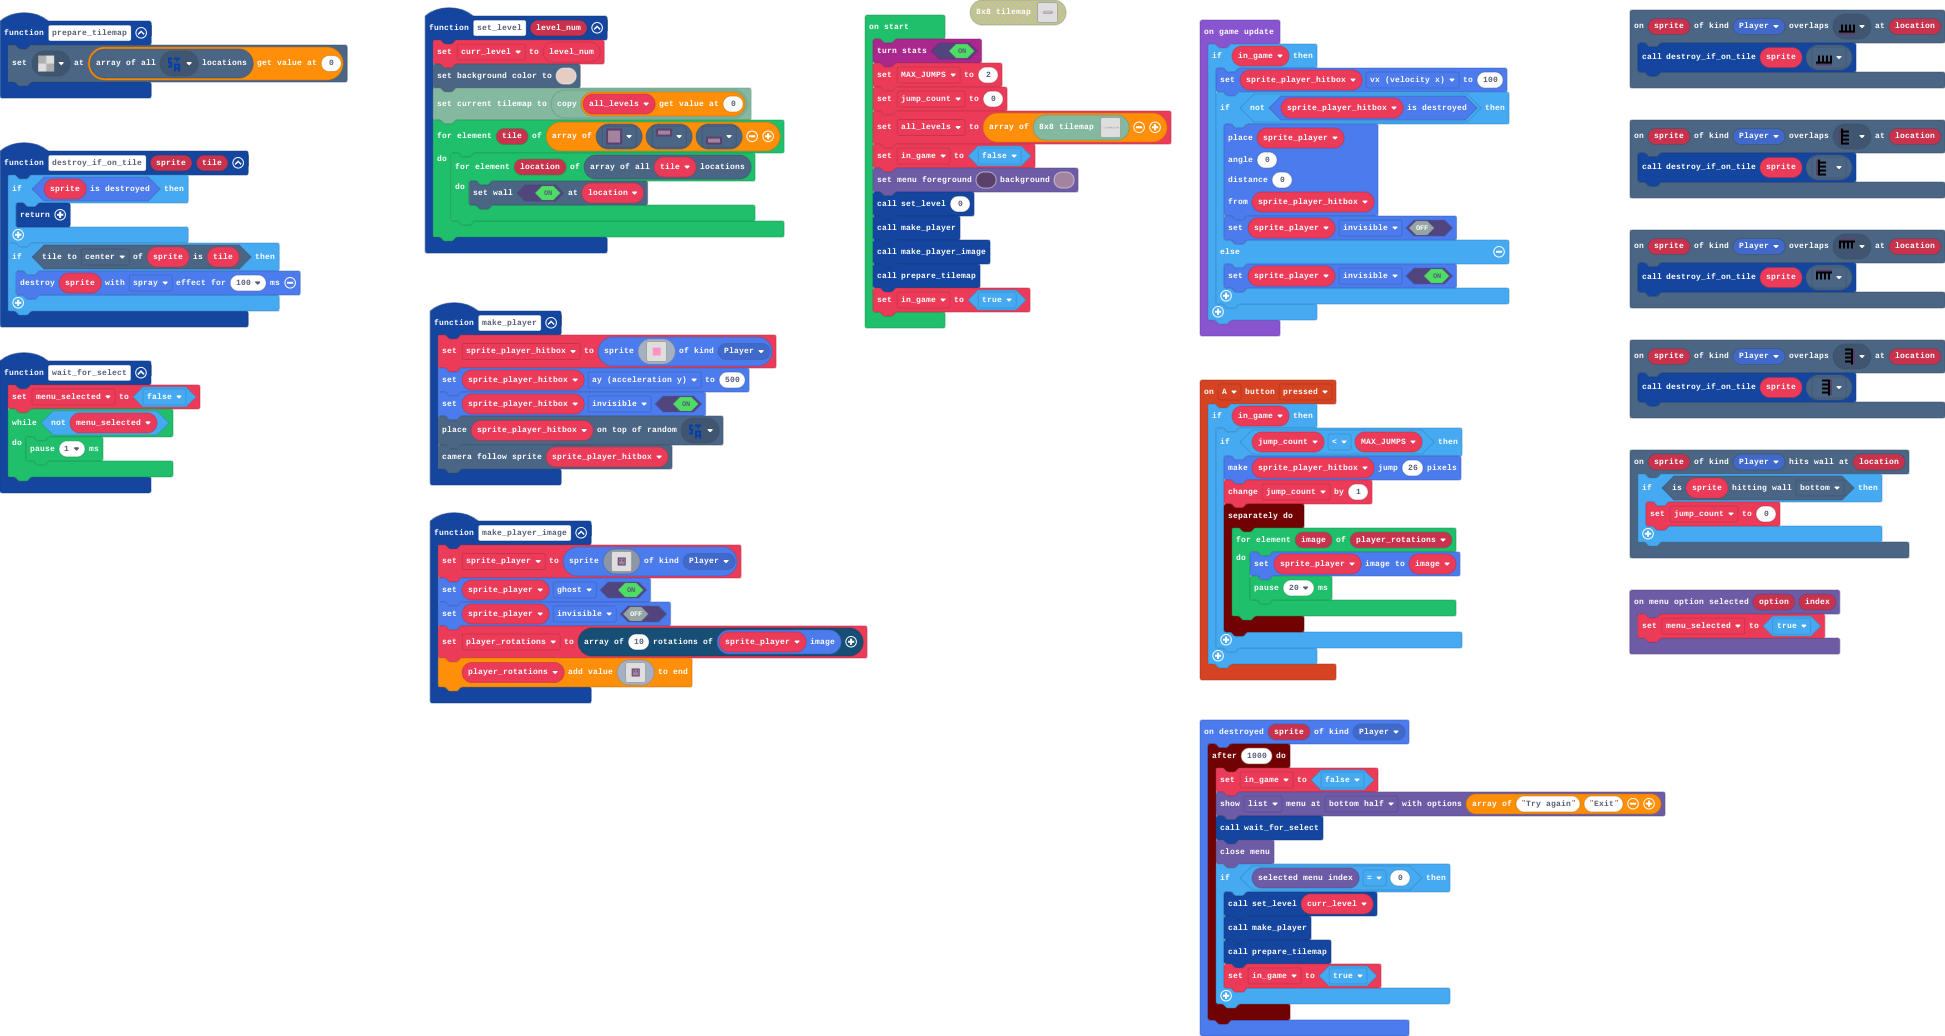
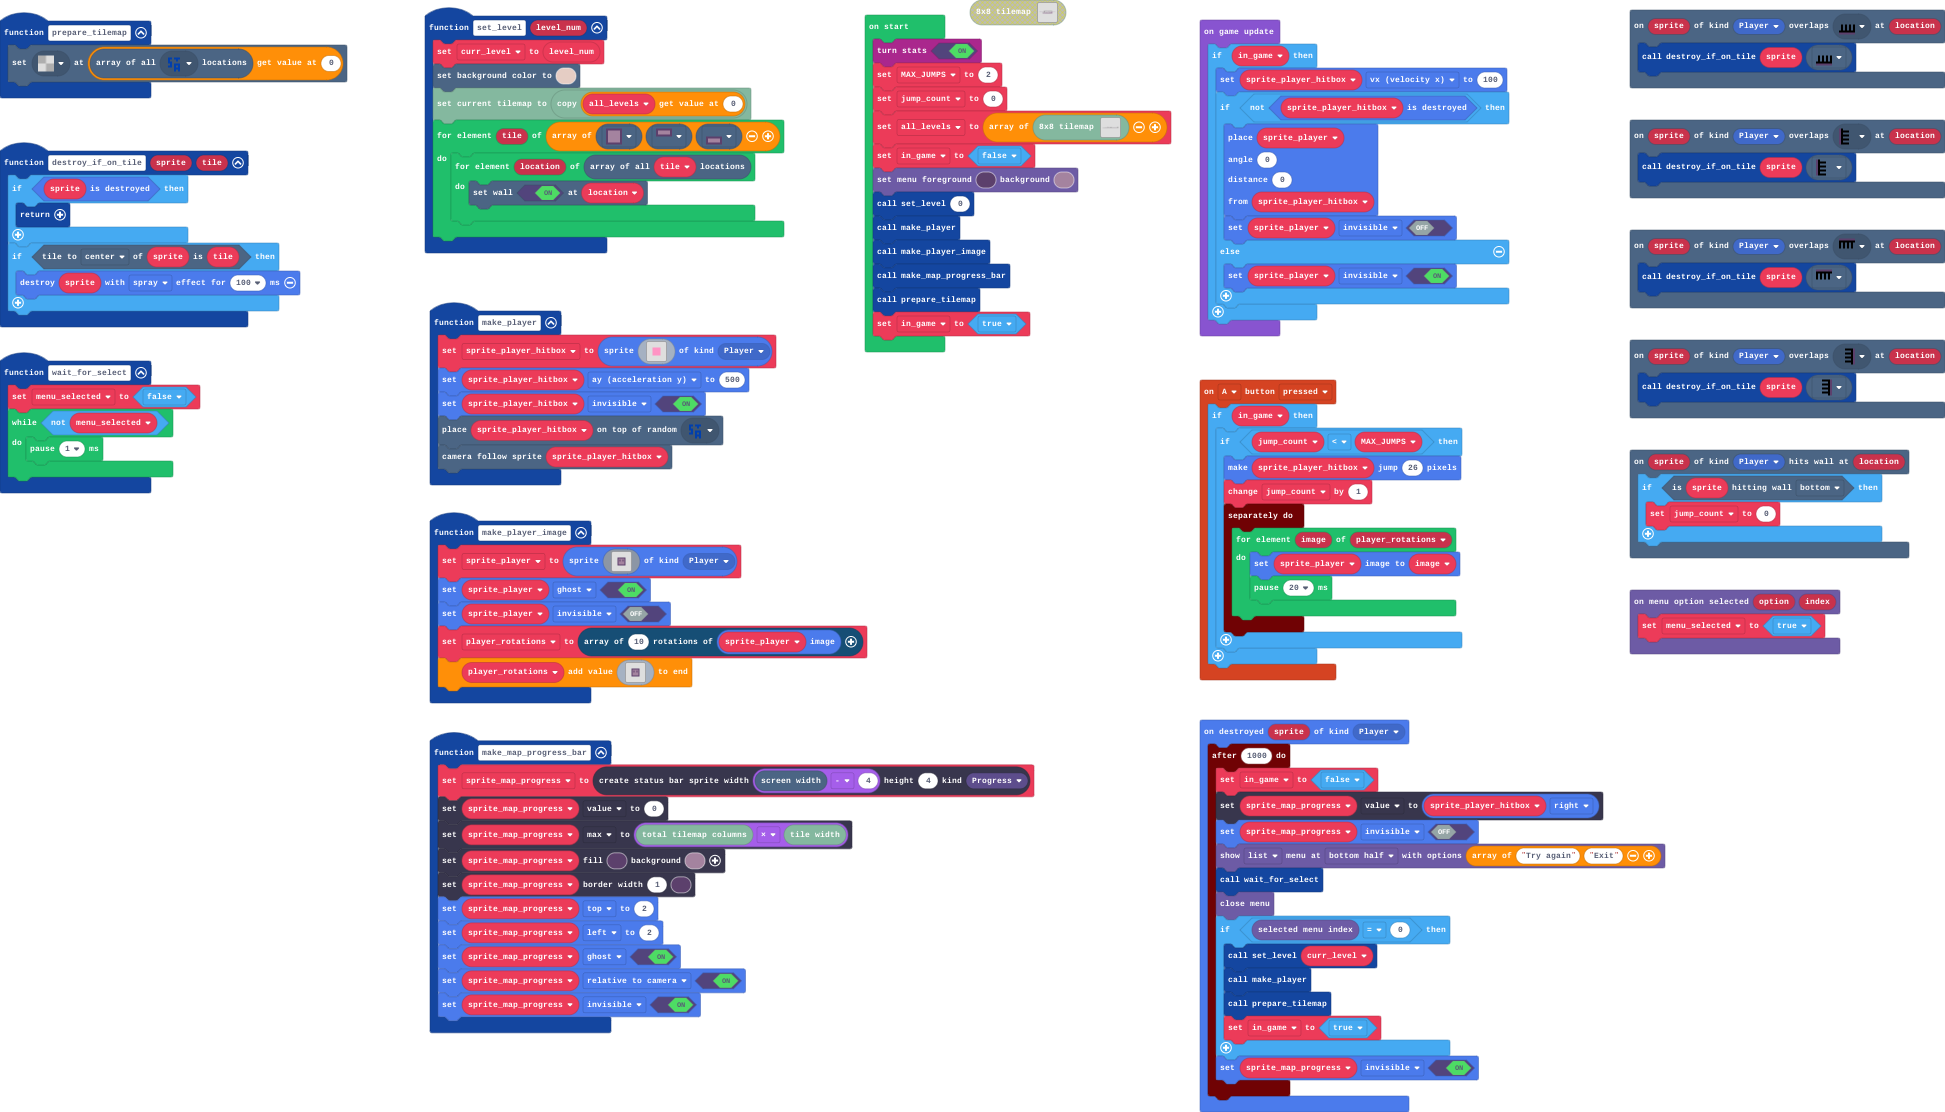
Add progress bar on death screen

diff --git a/main.ts b/main.ts
@@ -1,3 +1,6 @@
+namespace StatusBarKind {
+    export const Progress = StatusBarKind.create()
+}
 scene.onHitWall(SpriteKind.Player, function (sprite, location) {
     if (sprite.isHittingTile(CollisionDirection.Bottom)) {
         jump_count = 0
@@ -70,9 +73,23 @@ function wait_for_select () {
 scene.onOverlapTile(SpriteKind.Player, assets.tile`spikes_up0`, function (sprite, location) {
     destroy_if_on_tile(sprite, assets.tile`spikes_up0`)
 })
+function make_map_progress_bar () {
+    sprite_map_progress = statusbars.create(scene.screenWidth() - 4, 4, StatusBarKind.Progress)
+    sprite_map_progress.value = 0
+    sprite_map_progress.max = tiles.tilemapColumns() * tiles.tileWidth()
+    sprite_map_progress.setColor(12, 11)
+    sprite_map_progress.setBarBorder(1, 12)
+    sprite_map_progress.top = 2
+    sprite_map_progress.left = 2
+    sprite_map_progress.setFlag(SpriteFlag.Ghost, true)
+    sprite_map_progress.setFlag(SpriteFlag.RelativeToCamera, true)
+    sprite_map_progress.setFlag(SpriteFlag.Invisible, true)
+}
 sprites.onDestroyed(SpriteKind.Player, function (sprite) {
     timer.after(1000, function () {
         in_game = false
+        sprite_map_progress.value = sprite_player_hitbox.right
+        sprite_map_progress.setFlag(SpriteFlag.Invisible, false)
         blockMenu.showMenu(["Try again", "Exit"], MenuStyle.List, MenuLocation.BottomHalf)
         wait_for_select()
         blockMenu.closeMenu()
@@ -82,11 +99,13 @@ sprites.onDestroyed(SpriteKind.Player, function (sprite) {
             prepare_tilemap()
             in_game = true
         }
+        sprite_map_progress.setFlag(SpriteFlag.Invisible, true)
     })
 })
 blockMenu.onMenuOptionSelected(function (option, index) {
     menu_selected = true
 })
+let sprite_map_progress: StatusBarSprite = null
 let menu_selected = false
 let sprite_player_hitbox: Sprite = null
 let curr_level = 0
@@ -105,6 +124,7 @@ blockMenu.setColors(12, 11)
 set_level(0)
 make_player()
 make_player_image()
+make_map_progress_bar()
 prepare_tilemap()
 in_game = true
 game.onUpdate(function () {
